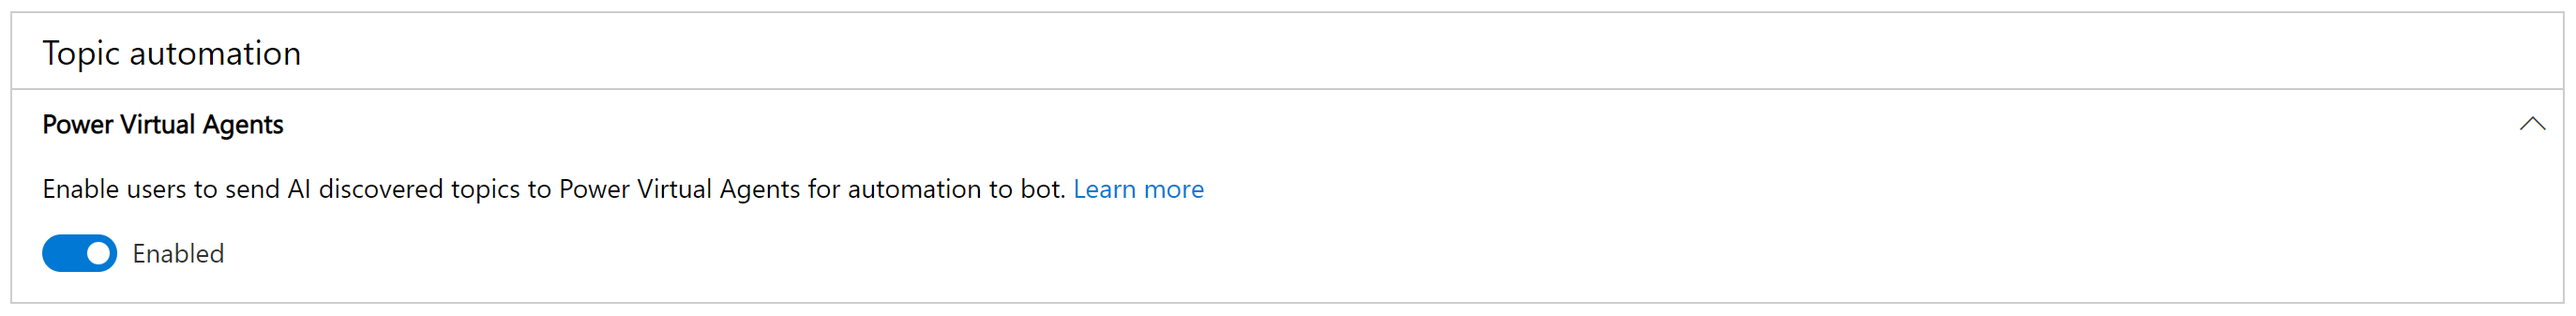
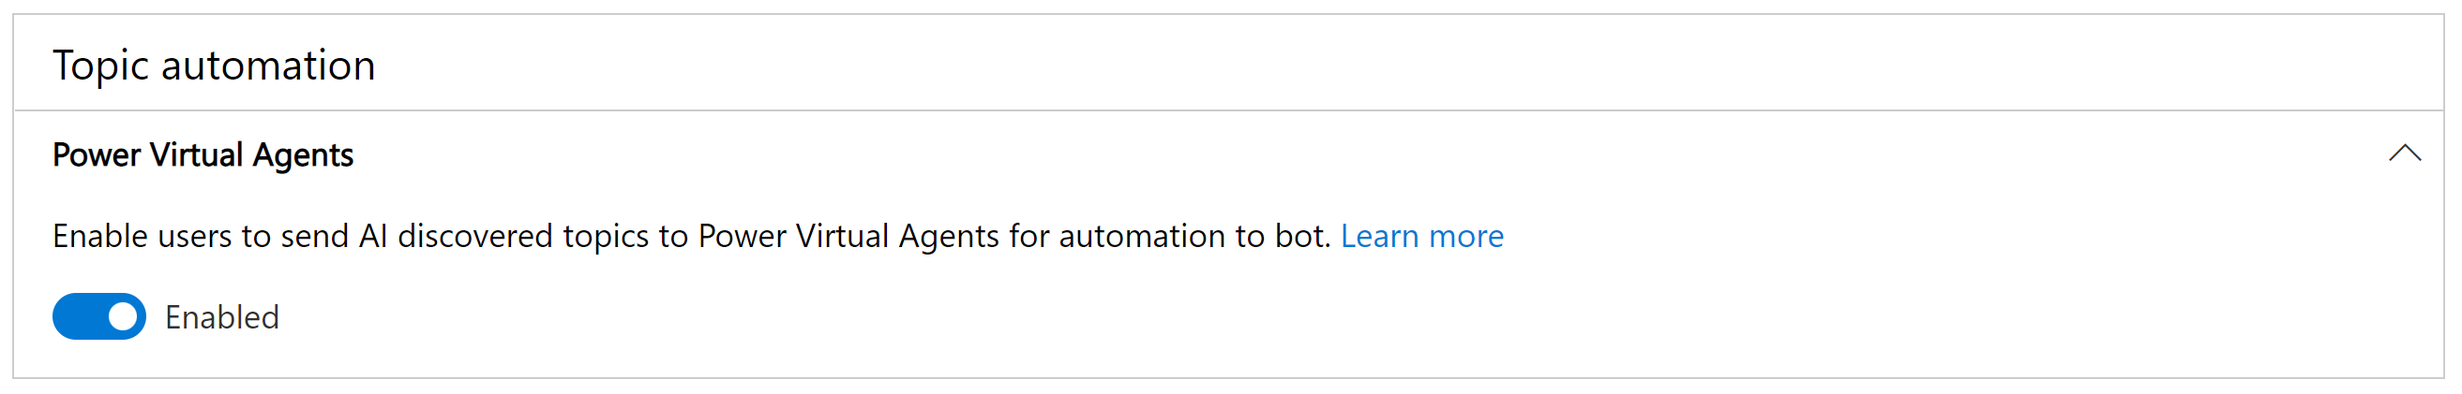
updated images for clarity

diff --git a/ce/customer-service/configure-topics-clustering-cases-cs.md b/ce/customer-service/configure-topics-clustering-cases-cs.md
@@ -43,8 +43,7 @@ The Summary and Model run summary views provide key information about how the to
 
 ### Improve data quality by cleaning support case data
 
-   > [!div class=ms-imgBorder]
-   > ![Clean support case data.](media/clean-support-case-data-cs.png "Clean support case data to improve data quality")
+  :::image type="content" source="clean-support-case-data-cs.png" alt-text="Clean support case data to improve data quality":::
 
 Customer Service Insights uses AI technology to give you insights into your customer service data by grouping support cases as topics that are a collection of related cases. This can help you identify areas for improvement that can have the greatest impact on system performance. 
 
@@ -54,8 +53,7 @@ The AI Insights charts displayed on the Customer Service Insights dashboards are
 
 AI discovered topics in Customer Service Historical Analytics are often prime candidates as topics for automation in Power Virtual Agents bots. If Power Virtual Agents is available in the region that your Customer Service organization is in, then the feature can be enabled by selecting the **Enable** toggle and selecting **Save**.
 
-> [!div class=ms-imgBorder]
-   > ![Topic automation for PVA.](media/cs-topic-automation.png "Topic automation for PVA")
+:::image type="content" source="cs-topic-automation.png" alt-text="Topic automation for PVA":::
 
 > [!NOTE]
 > Topic automation to Power Virtual Agents bot is currently not supported in Government Community Cloud.
